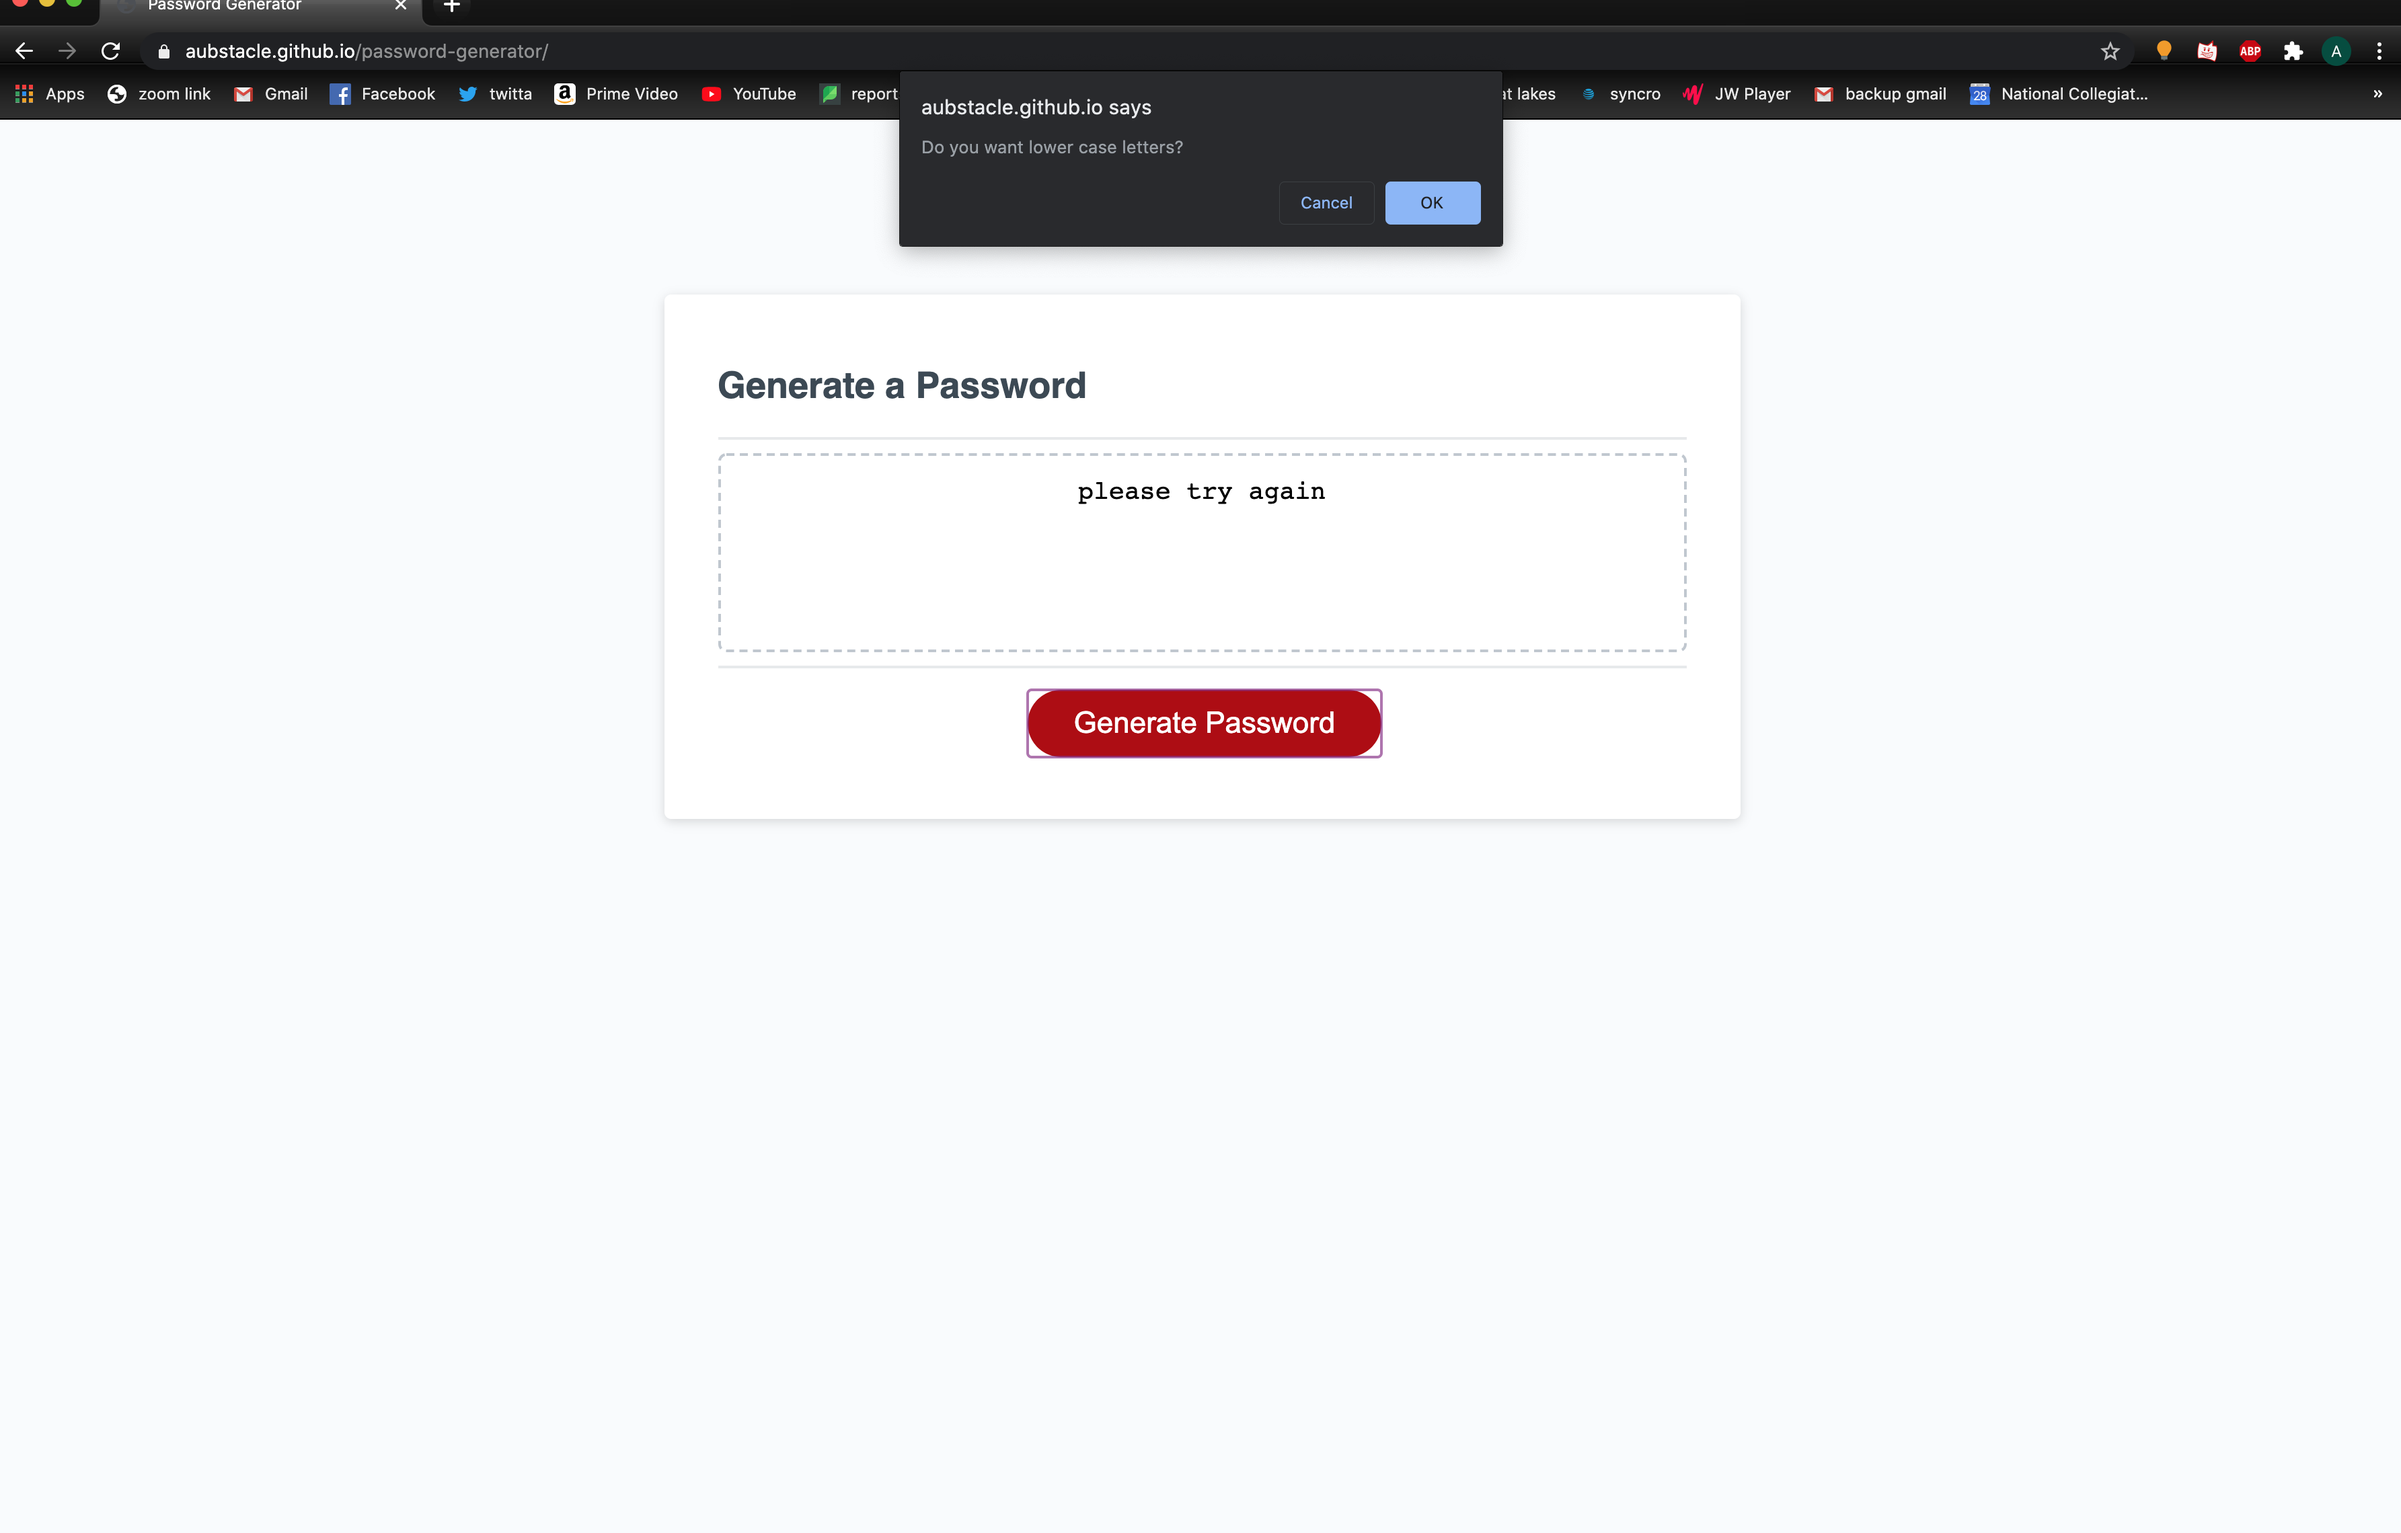
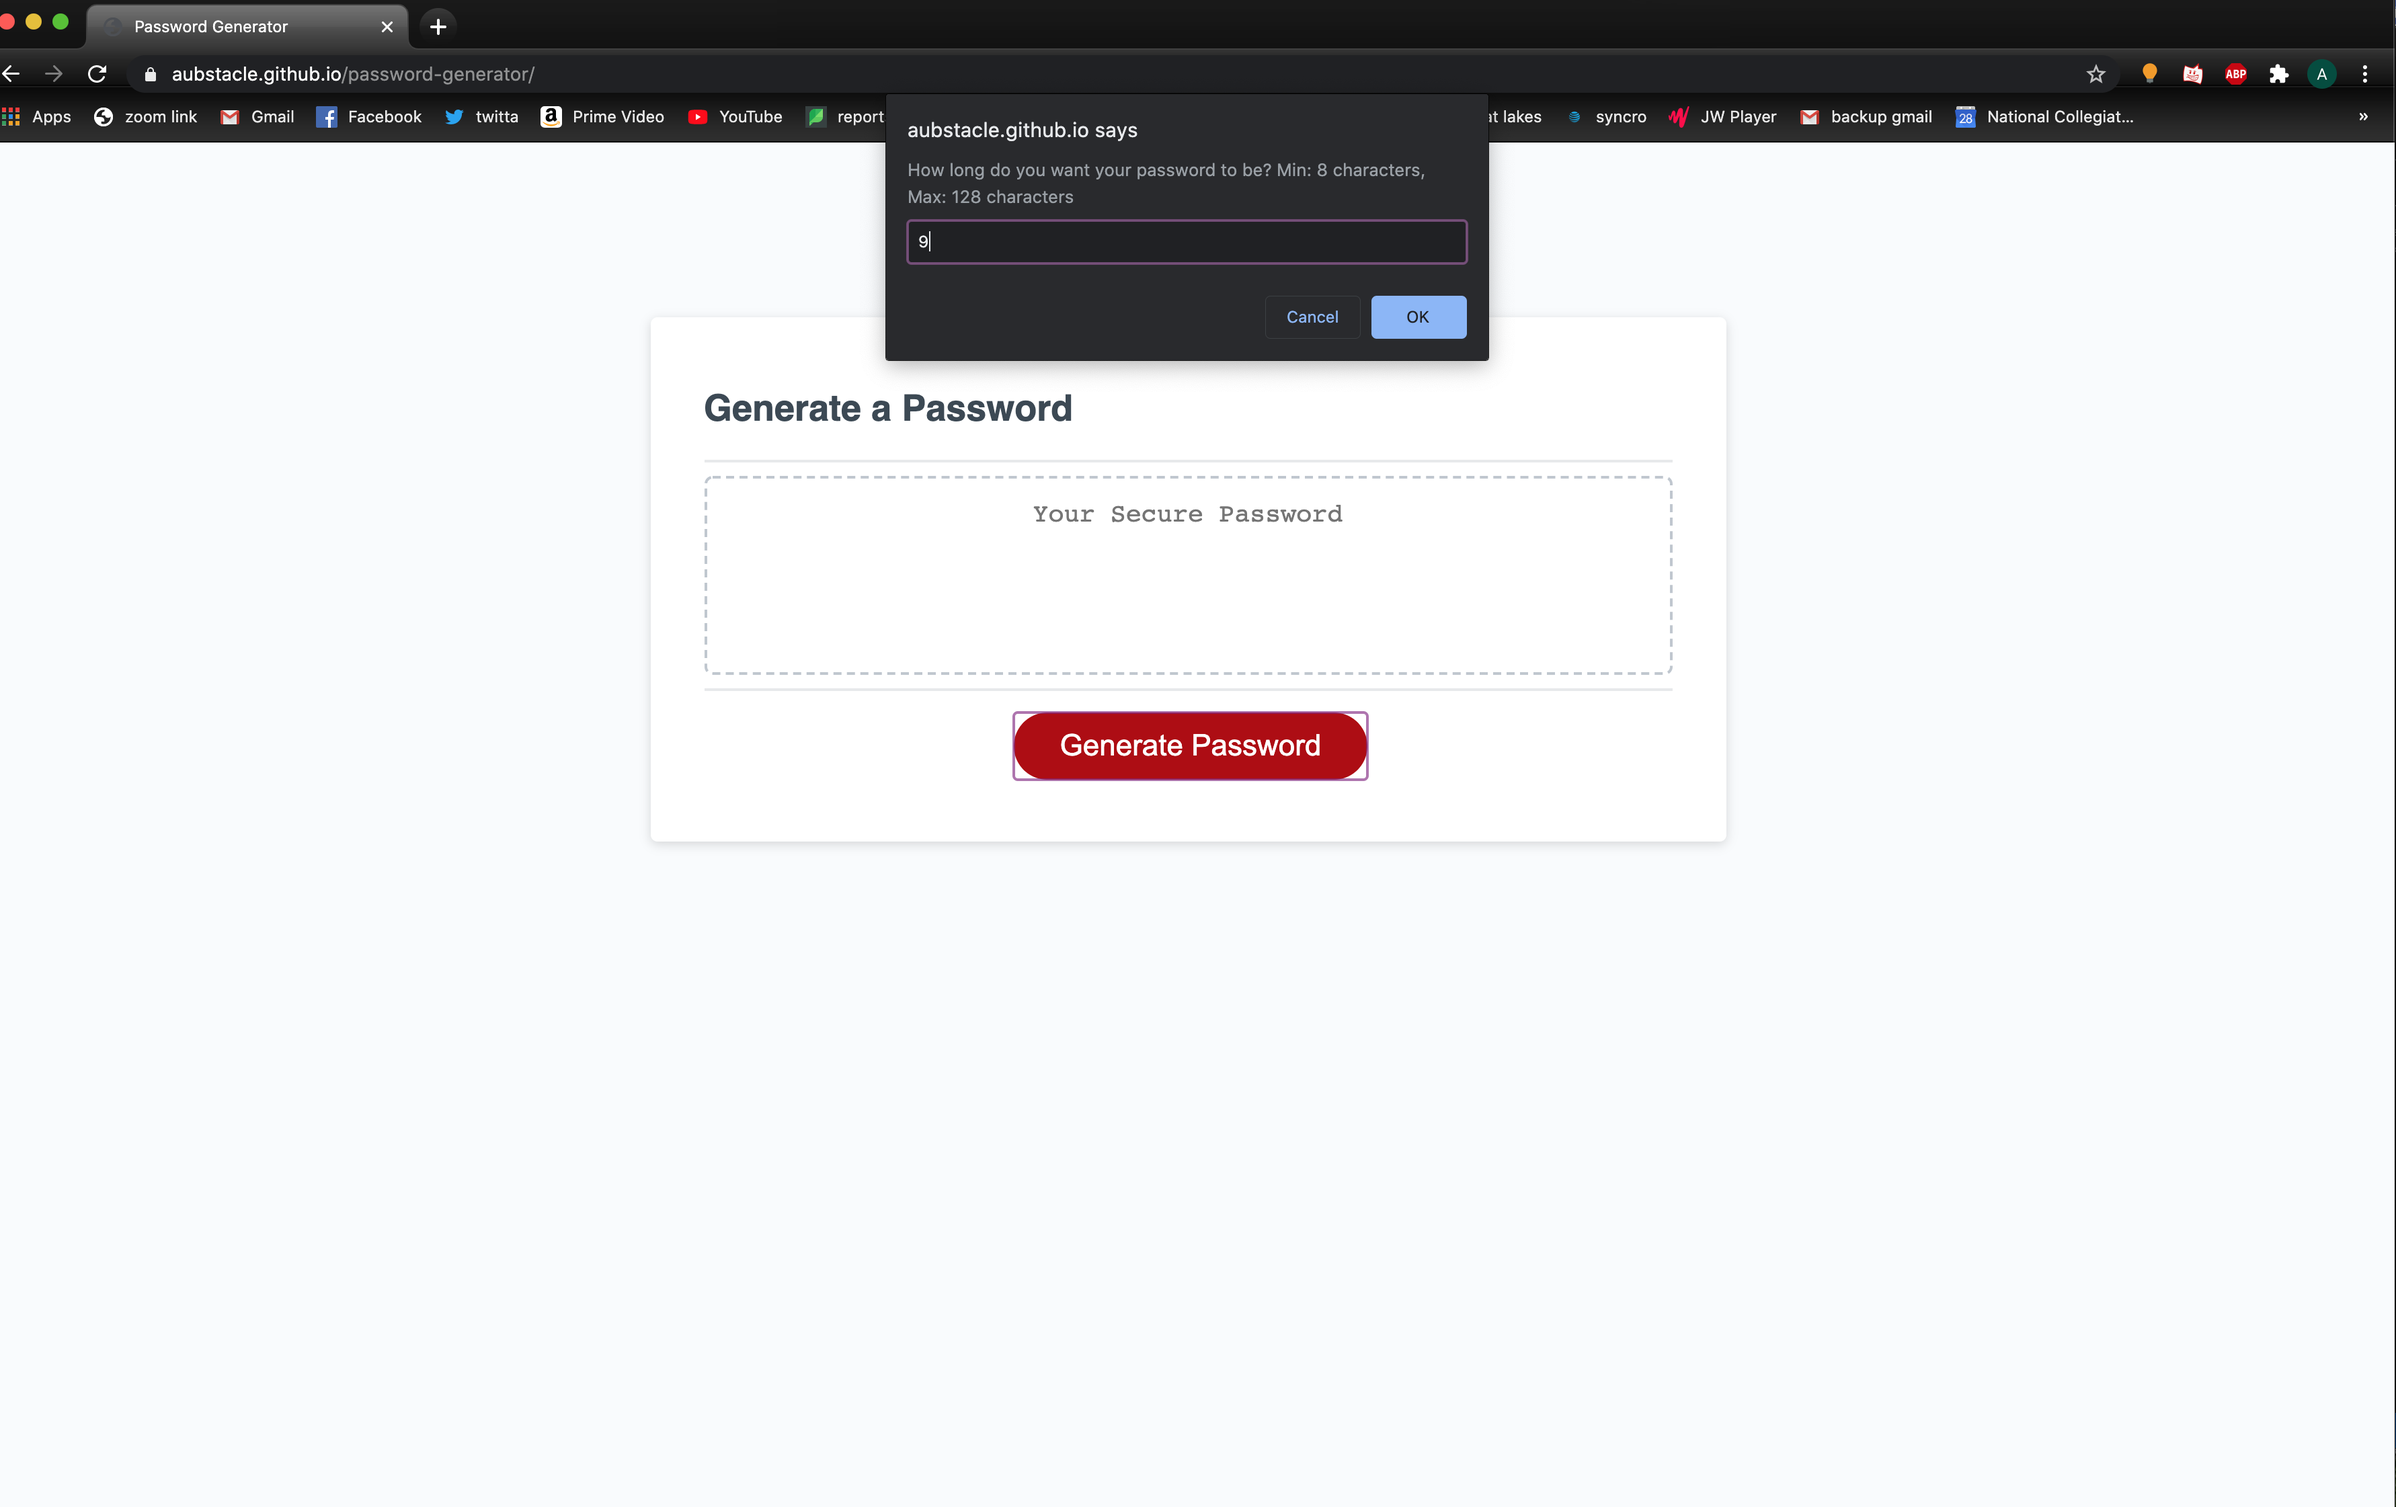
new screenshot

Changed region(s): [[0.0, 0.0, 1.0, 1.0], [0.4049, 0.4371, 0.5918, 0.5308], [0.436, 0.3122, 0.5606, 0.3434]]

diff --git a/Assets/script.js b/Assets/script.js
@@ -22,24 +22,21 @@ function writePassword() {
 // Add event listener to generate button
 generateBtn.addEventListener("click", writePassword);
 
+
+// Add function that adds the strings together
 function generatePassword() {
   var passwordLength = prompt(
     "How long do you want your password to be? Min: 8 characters, Max: 128 characters"
   );
-  // console.log("your pw length is: " + passwordLength);
 
   if (passwordLength < 8 || passwordLength > 128) {
     prompt("Please choose number between 8-128 characters");
   }
 
   var confirmLowerCase = confirm("Do you want lower case letters?");
-  // console.log("lower case letters: " + confirmLowerCase);
   var confirmUpperCase = confirm("Do you want UPPER CASE LETTERS?");
-  // console.log("upper case letters: " + confirmUpperCase);
   var confirmNumbers = confirm("Do you want numbers?");
-  // console.log("numbers: " + confirmNumbers);
   var confirmSpecials = confirm("Do you want special characters?");
-  // console.log("special characters: " + confirmSpecials);
 
   if (
     confirmLowerCase === false &&
@@ -56,7 +53,7 @@ function generatePassword() {
   }
 
   if (confirmUpperCase === true) {
-    availableChars = availableChars + lowerCase;
+    availableChars = availableChars + upperCase;
   }
 
   if (confirmNumbers === true) {
